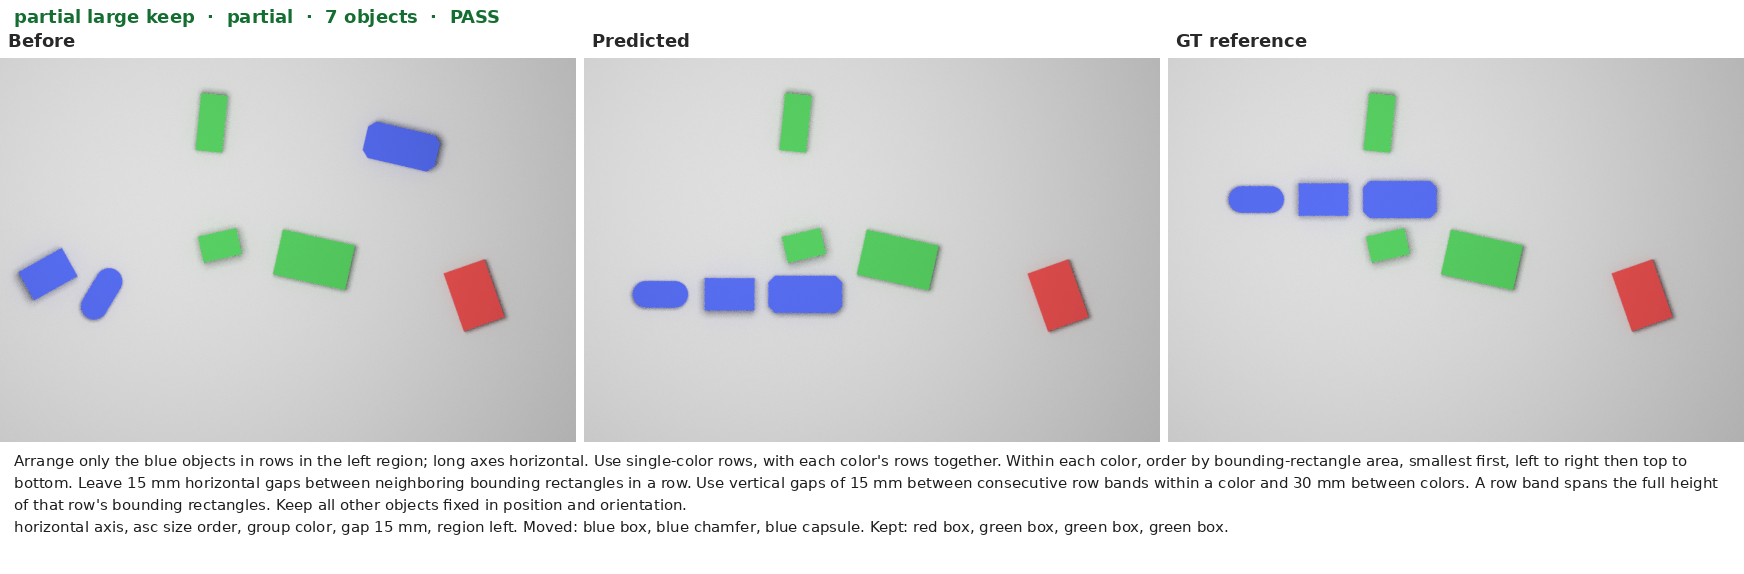
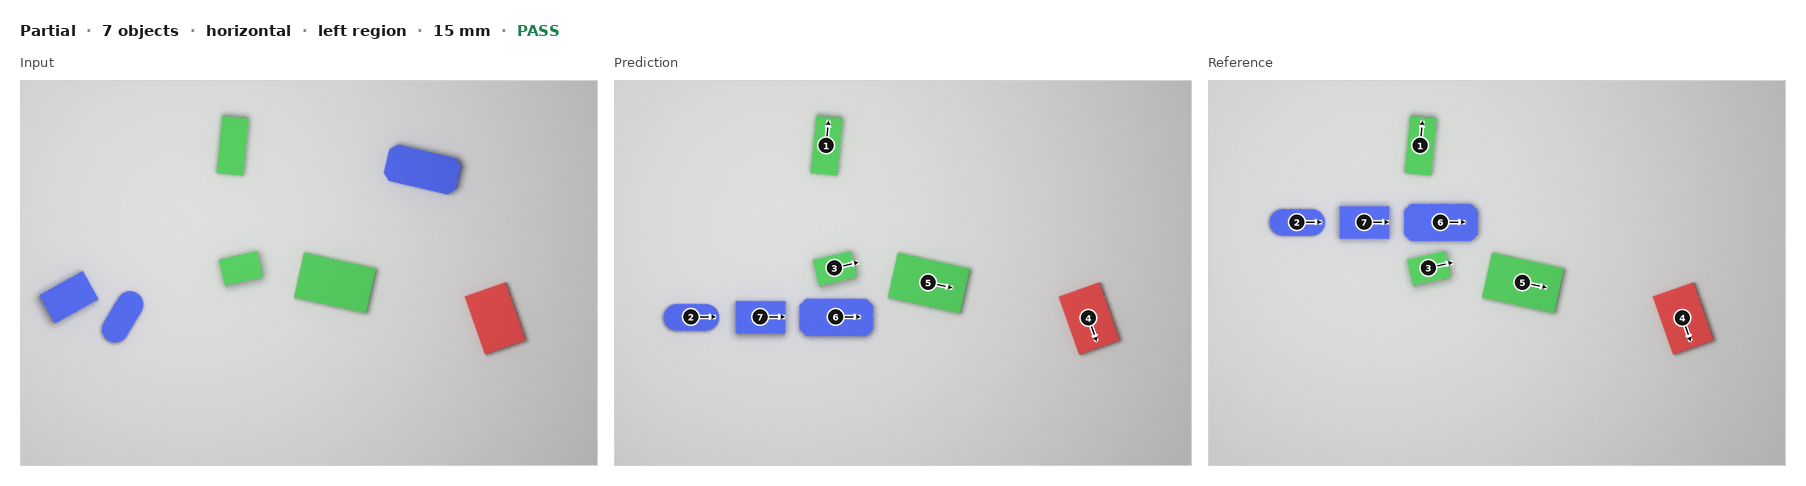
docs(): redraw the saved demos as input, prediction, and reference

diff --git a/docs/v2.0.0/demo-gallery/index.html b/docs/v2.0.0/demo-gallery/index.html
@@ -4,76 +4,57 @@
 <meta charset="utf-8">
 <title>Knolling demo gallery</title>
 <style>
-body { font-family: sans-serif; margin: 24px; background: #f7f7f7; color: #222; }
-article { background: white; margin: 0 0 28px; padding: 12px; }
+body { font-family: "DejaVu Sans", sans-serif; margin: 32px auto; max-width: 1180px; background: #fff; color: #1a1a1a; }
+article { margin: 0 0 36px; }
 img { width: 100%; height: auto; }
-p { max-width: 1100px; line-height: 1.4; }
+p { margin: 8px 0 0; color: #333; }
+.lead { max-width: 760px; line-height: 1.45; }
 </style>
 </head>
 <body>
-<h1>End-to-end knolling, commit 26dca53</h1>
-<p>These 10 validation scenes were picked to show full, partial, and no-op behavior, including 7 passes and 3 failures. They are not a success rate. Inference used the RGB image and the instruction only. The GT column is a reference render. Harder scenes are listed first. The 3-object example is at the bottom.</p>
+<h1>End-to-end knolling demos</h1>
+<p class="lead">Ten validation scenes from commit 26dca53. Each figure shows the input, the predicted poses, and the reference. Seven pass and three fail. This set is not a success rate. The renders and the pass or fail labels are the ones already saved. Inference used the RGB image and the instruction only.</p>
 <p><a href="contact_sheet.png">Contact sheet</a> · <a href="summary.json">Summary</a></p>
 
         <article id="demo-02">
-          <img src="02_full_pass.png" alt="02">
-          <p><strong>02 · full · 8 objects · PASS</strong></p>
-          <p>Arrange all objects in rows in the full workspace; long axes vertical. Across the selected objects, order by bounding-rectangle area, smallest first, left to right then top to bottom. Leave 20 mm horizontal gaps between neighboring bounding rectangles in a row. Use 20 mm vertical gaps between consecutive row bands. A row band spans the full height of that row&#x27;s bounding rectangles.</p>
-          <p>official checks passed</p>
+          <img src="02_full_pass.png" alt="Full, 8 objects, vertical, full region, 20 mm, pass">
+          <p>Full · 8 objects · vertical · full region · 20 mm · PASS</p>
         </article>
         <article id="demo-07">
-          <img src="07_partial_pass.png" alt="07">
-          <p><strong>07 · partial · 7 objects · PASS</strong></p>
-          <p>Arrange only the blue objects in rows in the left region; long axes horizontal. Use single-color rows, with each color&#x27;s rows together. Within each color, order by bounding-rectangle area, smallest first, left to right then top to bottom. Leave 15 mm horizontal gaps between neighboring bounding rectangles in a row. Use vertical gaps of 15 mm between consecutive row bands within a color and 30 mm between colors. A row band spans the full height of that row&#x27;s bounding rectangles. Keep all other objects fixed in position and orientation.</p>
-          <p>official checks passed</p>
+          <img src="07_partial_pass.png" alt="Partial, 7 objects, horizontal, left region, 15 mm, pass">
+          <p>Partial · 7 objects · horizontal · left region · 15 mm · PASS</p>
         </article>
         <article id="demo-04">
-          <img src="04_full_fail.png" alt="04">
-          <p><strong>04 · full · 6 objects · FAIL</strong></p>
-          <p>Arrange all objects in rows in the full workspace; long axes horizontal. Use single-color rows, with each color&#x27;s rows together. Within each color, order by bounding-rectangle area, smallest first, left to right then top to bottom. Leave 30 mm horizontal gaps between neighboring bounding rectangles in a row. Use vertical gaps of 30 mm between consecutive row bands within a color and 60 mm between colors. A row band spans the full height of that row&#x27;s bounding rectangles.</p>
-          <p>horizontal gap, vertical gap</p>
+          <img src="04_full_fail.png" alt="Full, 6 objects, horizontal, full region, 30 mm, fail, horizontal and vertical gap">
+          <p>Full · 6 objects · horizontal · full region · 30 mm · FAIL · horizontal gap, vertical gap</p>
         </article>
         <article id="demo-03">
-          <img src="03_full_pass.png" alt="03">
-          <p><strong>03 · full · 4 objects · PASS</strong></p>
-          <p>Arrange all objects in rows in the full workspace; long axes horizontal. Use single-color rows, with each color&#x27;s rows together. Within each color, order by bounding-rectangle area, smallest first, left to right then top to bottom. Leave 20 mm horizontal gaps between neighboring bounding rectangles in a row. Use vertical gaps of 20 mm between consecutive row bands within a color and 40 mm between colors. A row band spans the full height of that row&#x27;s bounding rectangles.</p>
-          <p>official checks passed</p>
+          <img src="03_full_pass.png" alt="Full, 4 objects, horizontal, full region, 20 mm, pass">
+          <p>Full · 4 objects · horizontal · full region · 20 mm · PASS</p>
         </article>
         <article id="demo-05">
-          <img src="05_partial_pass.png" alt="05">
-          <p><strong>05 · partial · 2 objects · PASS</strong></p>
-          <p>Arrange only the red objects in rows in the full workspace; long axes horizontal. Use single-color rows, with each color&#x27;s rows together. Within each color, order by bounding-rectangle area, largest first, left to right then top to bottom. Leave 15 mm horizontal gaps between neighboring bounding rectangles in a row. Use vertical gaps of 15 mm between consecutive row bands within a color and 30 mm between colors. A row band spans the full height of that row&#x27;s bounding rectangles. Keep all other objects fixed in position and orientation.</p>
-          <p>official checks passed</p>
+          <img src="05_partial_pass.png" alt="Partial, 2 objects, horizontal, full region, 15 mm, pass">
+          <p>Partial · 2 objects · horizontal · full region · 15 mm · PASS</p>
         </article>
         <article id="demo-06">
-          <img src="06_partial_pass.png" alt="06">
-          <p><strong>06 · partial · 5 objects · PASS</strong></p>
-          <p>Arrange only the green objects in rows in the full workspace; long axes horizontal. Across the selected objects, order by bounding-rectangle area, largest first, left to right then top to bottom. Leave 30 mm horizontal gaps between neighboring bounding rectangles in a row. Use 30 mm vertical gaps between consecutive row bands. A row band spans the full height of that row&#x27;s bounding rectangles. Keep all other objects fixed in position and orientation.</p>
-          <p>official checks passed</p>
+          <img src="06_partial_pass.png" alt="Partial, 5 objects, horizontal, full region, 30 mm, pass">
+          <p>Partial · 5 objects · horizontal · full region · 30 mm · PASS</p>
         </article>
         <article id="demo-08">
-          <img src="08_partial_fail.png" alt="08">
-          <p><strong>08 · partial · 4 objects · FAIL</strong></p>
-          <p>Arrange only the blue objects in rows in the full workspace; long axes horizontal. Use single-color rows, with each color&#x27;s rows together. Within each color, order by bounding-rectangle area, smallest first, left to right then top to bottom. Leave 30 mm horizontal gaps between neighboring bounding rectangles in a row. Use vertical gaps of 30 mm between consecutive row bands within a color and 60 mm between colors. A row band spans the full height of that row&#x27;s bounding rectangles. Keep all other objects fixed in position and orientation.</p>
-          <p>horizontal gap</p>
+          <img src="08_partial_fail.png" alt="Partial, 4 objects, horizontal, full region, 30 mm, fail, horizontal gap">
+          <p>Partial · 4 objects · horizontal · full region · 30 mm · FAIL · horizontal gap</p>
         </article>
         <article id="demo-09">
-          <img src="09_no_op_pass.png" alt="09">
-          <p><strong>09 · no_op · 4 objects · PASS</strong></p>
-          <p>Keep every object at its current position and orientation.</p>
-          <p>official checks passed</p>
+          <img src="09_no_op_pass.png" alt="No-op, 4 objects, pass">
+          <p>No-op · 4 objects · PASS</p>
         </article>
         <article id="demo-10">
-          <img src="10_no_op_fail.png" alt="10">
-          <p><strong>10 · no_op · 3 objects · FAIL</strong></p>
-          <p>Keep every object at its current position and orientation.</p>
-          <p>detection count</p>
+          <img src="10_no_op_fail.png" alt="No-op, 3 objects, fail, detection count">
+          <p>No-op · 3 objects · FAIL · detection count</p>
         </article>
         <article id="demo-01">
-          <img src="01_full_pass.png" alt="01">
-          <p><strong>01 · full · 3 objects · PASS</strong></p>
-          <p>Arrange all objects in rows in the full workspace; long axes horizontal. Across the selected objects, order by bounding-rectangle area, smallest first, left to right then top to bottom. Leave 30 mm horizontal gaps between neighboring bounding rectangles in a row. Use 30 mm vertical gaps between consecutive row bands. A row band spans the full height of that row&#x27;s bounding rectangles.</p>
-          <p>official checks passed</p>
+          <img src="01_full_pass.png" alt="Full, 3 objects, horizontal, full region, 30 mm, pass">
+          <p>Full · 3 objects · horizontal · full region · 30 mm · PASS</p>
         </article>
 </body>
 </html>

diff --git a/README.md b/README.md
@@ -68,28 +68,19 @@ Checkpoints and datasets are not in this repository. Paths, hashes, and the
 
 ## Representative demos
 
-The figures below are the harder scenes already saved in the demo gallery:
-eight objects arranged at once, and seven objects with only one color moved.
-They are examples, not a success rate. The same caveat applies as above: the
-panels compare predicted poses on synthetic RGB with a reference render. They
-are not robot executions.
+Three saved validation scenes. Each figure shows the input, the predicted
+poses, and the reference render. They are examples, not a success rate, and
+they are not robot executions.
 
 ![Full · 8 objects · PASS](docs/v2.0.0/demo-gallery/02_full_pass.png)
 
 ![Partial · 7 objects · PASS](docs/v2.0.0/demo-gallery/07_partial_pass.png)
 
-The saved gallery has no 7- or 8-object no-op pass, so that case is not shown
-as a figure. The no-op pass it does contain has four objects:
-[No-op · 4 objects · PASS](docs/v2.0.0/demo-gallery/09_no_op_pass.png).
-The smaller
-[3-object full pass](docs/v2.0.0/demo-gallery/index.html#demo-01)
-stays in the gallery and is not the lead example.
+![Full · 6 objects · FAIL](docs/v2.0.0/demo-gallery/04_full_fail.png)
 
-A representative failure is the six-object full scene that misses the
-horizontal and vertical gaps:
-[Full · 6 objects · FAIL](docs/v2.0.0/demo-gallery/04_full_fail.png).
-
-All ten panels are in the [demo gallery](docs/v2.0.0/demo-gallery/index.html).
+The other seven scenes, including the four-object no-op pass, are in the
+[demo gallery](docs/v2.0.0/demo-gallery/index.html). No 7- or 8-object no-op
+pass was saved.
 
 ## Repository
 

diff --git a/docs/evaluation.md b/docs/evaluation.md
@@ -56,5 +56,5 @@ not start with `v2hold_`. It aborts if the threshold is not 0.5.
 ## Demos
 
 [The gallery](v2.0.0/demo-gallery/index.html) shows ten validation scenes from
-commit `26dca53`. Seven pass and three fail. That is a demonstration, not a
-success rate.
+commit `26dca53`. Each figure is the input, the prediction, and the reference.
+Seven pass and three fail. That is a demonstration, not a success rate.
